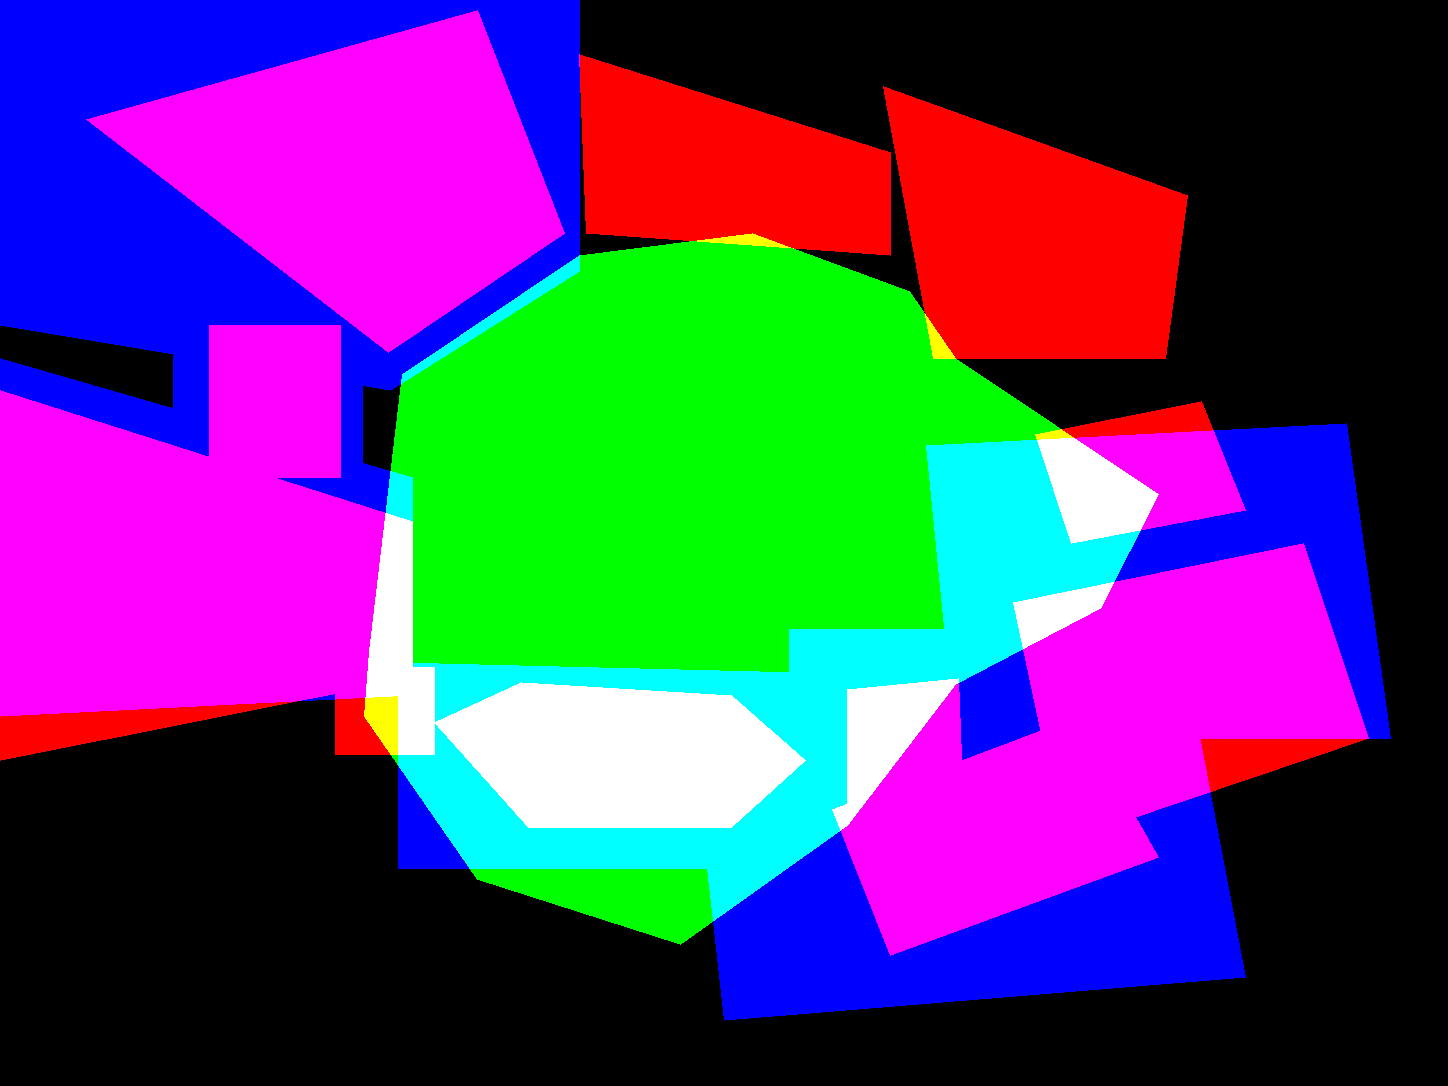
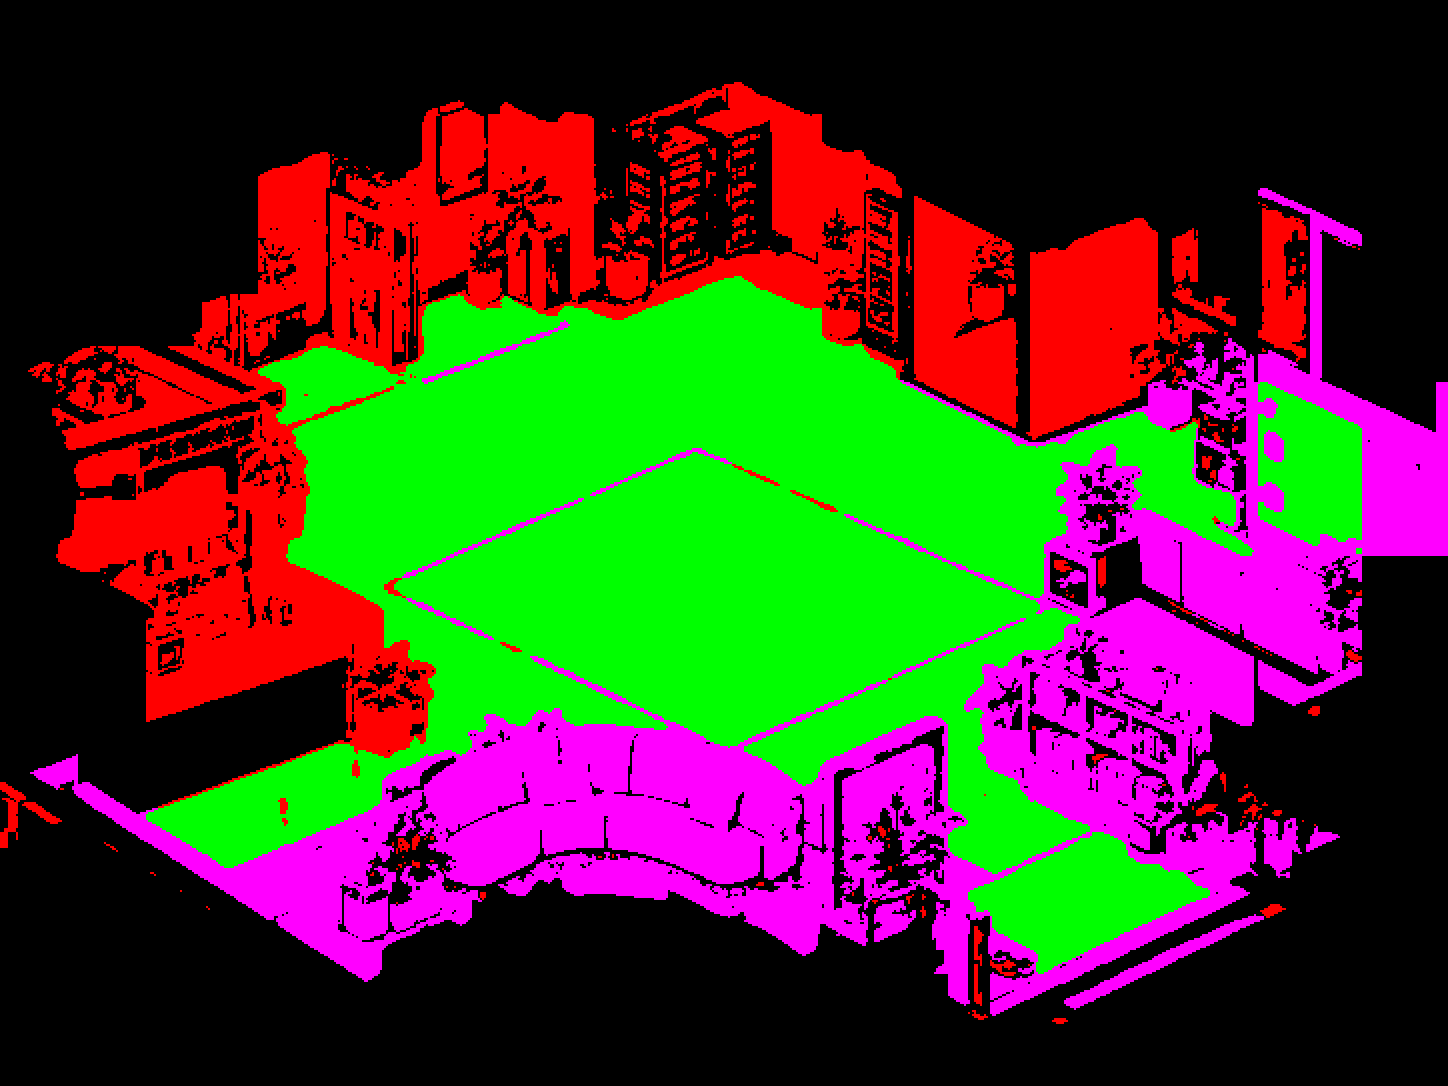
feat(roommap): segment the room automatically, then let the owner correct it
Owner (2026-09-20): "คุณสามารถจับ ออปเจควัตถุได้อยู่แล้วไม่ใช่เหรอ ... หาวิธี
หน่อย ที่กดปุ่มเดียวแล้วระบายไว้ก่อนเลย ฉันปรับแต่งรายละเอียดนิดหน่อย" — and
"ตัวนี้ต้องเก็บไว้ใช้เลย พวกเกมเราก็ต้องใช้ในอนาคต", so it is a tool with a
path argument, not a one-off script.

tools/roommap/autoseg.py. First attempt clustered colours (k-means, k=14) and
failed for a reason worth recording: in this art the walls, the floor and half
the furniture share a palette, so no amount of cluster scoring separates them —
it painted 43% of the picture as floor including the shelving.

What does separate them is what a picture of a room carries that a palette does
not:

  FLATNESS    the floor is the large low-detail surface; furniture, plants and
              shelves are busy. A local-variance map finds it immediately.
  CONTINUITY  the floor is one connected surface. Growing it from seeds inside
              it, bounded by an edge map (luma AND per-channel colour, because
              the green sofa matches the boards in brightness), keeps furniture
              out even where the colours agree.
  PROJECTION  depth is free in a fixed isometric camera: lower on screen is
              nearer the viewer, so an object with floor ABOVE it in the same
              column is an object a character can stand behind. That is the
              occluder test, per connected component.

Two corrections the previews forced, both structural rather than tuning:
[…]

diff --git a/BrainX.Client/wwwroot/office/tools/mask-paint.html b/BrainX.Client/wwwroot/office/tools/mask-paint.html
@@ -113,6 +113,9 @@
     <div class="grp">
       <label>ให้โปรแกรมช่วยเก็บ</label>
       <div class="row">
+        <button id="auto" style="flex:1">ระบายอัตโนมัติให้เลย</button>
+      </div>
+      <div class="row" style="margin-top:6px">
         <button id="snap" style="flex:1">เก็บขอบให้ (S)</button>
       </div>
       <div class="row" style="margin-top:6px">
@@ -622,6 +625,47 @@ function checkMap() {
     ].join('<br>'));
 }
 function report(html) { document.getElementById('report').innerHTML = html; }
+
+/* One button: load the automatic pass.
+ *
+ * Owner (2026-09-20): "หาวิธีหน่อย ที่กดปุ่มเดียวแล้วระบายไว้ก่อนเลย ฉันปรับแต่ง
+ * รายละเอียดนิดหน่อย". The segmentation itself is tools/roommap/autoseg.py —
+ * flatness picks the floor, region growing bounded by an edge map keeps the
+ * furniture out of it, and depth comes from the projection. It runs outside
+ * the browser because it is a batch job over 1.5M pixels that only needs
+ * re-running when the PLATE changes, not while somebody is painting.
+ *
+ * So the button loads its output and hands it over as editable paint. */
+document.getElementById('auto').addEventListener('click', async () => {
+    try {
+        snapshot();
+        const im = new Image();
+        await new Promise((res, rej) => { im.onload = res; im.onerror = rej; im.src = '../art/room-mask.png?t=' + Date.now(); });
+        const t = document.createElement('canvas');
+        t.width = im.naturalWidth; t.height = im.naturalHeight;
+        t.getContext('2d').drawImage(im, 0, 0);
+        const d = t.getContext('2d').getImageData(0, 0, t.width, t.height);
+        const out = mctx.createImageData(paint.width, paint.height);
+        for (let i = 0; i < d.data.length; i += 4) {
+            const R = d.data[i] > 127, G = d.data[i + 1] > 127, B = d.data[i + 2] > 127;
+            if (!(R || G || B)) continue;
+            let r = 0, g = 0, b = 0, n = 0;
+            if (G) { r += 60; g += 227; b += 138; n++; }
+            if (R) { r += 255; g += 90; b += 110; n++; }
+            if (B) { r += 90; g += 160; b += 255; n++; }
+            out.data[i] = r / n; out.data[i + 1] = g / n; out.data[i + 2] = b / n; out.data[i + 3] = 255;
+        }
+        mctx.putImageData(out, 0, 0);
+        try {
+            const sj = await fetch('../art/room-seats.json?t=' + Date.now()).then(r => r.json());
+            seats.length = 0; (sj.seats || []).forEach(s => seats.push(s)); drawSeats();
+        } catch { /* seats are optional */ }
+        checkMap();
+        say('ระบายอัตโนมัติมาให้แล้ว — แก้ทับได้เลย');
+    } catch (e) {
+        say('ยังไม่มีผลอัตโนมัติ — รัน tools/roommap/autoseg.py ก่อน');
+    }
+});
 
 document.getElementById('snap').addEventListener('click', () => { snapshot(); snapToEdges(); });
 document.getElementById('clean').addEventListener('click', () => { snapshot(); cleanLayer(); });

diff --git a/tools/roommap/autoseg.py b/tools/roommap/autoseg.py
@@ -1,0 +1,258 @@
+# Automatic room segmentation, take two — seeded region growing.
+#
+# Take one clustered by colour and failed for a reason worth keeping: in this
+# art the walls, the floor and half the furniture share a palette. Colour alone
+# cannot separate them, and no amount of scoring rescues a cluster that is
+# genuinely both.
+#
+# What DOES separate them is the two things a picture of a room carries that a
+# palette does not:
+#
+#   FLATNESS  the floor is the large low-detail area; furniture, plants and
+#             shelves are busy. A local-variance map finds that immediately.
+#   CONTINUITY the floor is one connected surface under the camera. Growing it
+#             from seeds INSIDE it, and stopping at edges, keeps the sofa out
+#             even where the sofa is the same brightness as the boards.
+#
+# So: flatness picks the seeds, region growing bounded by an edge map does the
+# rest, and depth (what occludes what) still comes from the projection — lower
+# on screen is nearer the viewer.
+import argparse, io, json, os
+import numpy as np
+from PIL import Image, ImageDraw
+
+# Owner (2026-09-20): "ตัวนี้ต้องเก็บไว้ใช้เลย พวกเกมเราก็ต้องใช้ในอนาคต".
+# It takes a path rather than one hardcoded room, so it works on the next
+# plate and the next game:
+#
+#   python tools/roommap/autoseg.py <plate.png> [-o OUTDIR]
+#
+# It is a FIRST PASS, not an answer. Open the result in
+# wwwroot/office/tools/mask-paint.html and correct it — faster than painting
+# 1.5M pixels from nothing, and only slower than nothing if it were wrong
+# everywhere, which the preview it writes lets you check in one look.
+
+
+
+def box_mean(a, r):
+    """Mean over a (2r+1) box, via a summed-area table. Used for both the
+    variance map and the morphology below, so it is worth having exactly."""
+    H, W = a.shape
+    pad = np.pad(a, r + 1, mode="edge")
+    ii = pad.cumsum(0).cumsum(1)
+    y0, y1 = np.mgrid[0:H, 0:W][0], None
+    ys = np.arange(H)[:, None]
+    xs = np.arange(W)[None, :]
+    a1 = ii[ys, xs]
+    a2 = ii[ys, xs + 2 * r + 1]
+    a3 = ii[ys + 2 * r + 1, xs]
+    a4 = ii[ys + 2 * r + 1, xs + 2 * r + 1]
+    area = (2 * r + 1) ** 2
+    return (a4 - a2 - a3 + a1) / area
+
+
+def grow(seedmask, allow, iters=400):
+    """Dilate `seedmask` inside `allow` until it stops changing. Plain binary
+    dilation by a 3x3 cross, vectorised — a flood fill written as array shifts,
+    which is fast enough at half resolution and has no recursion to blow."""
+    cur = seedmask & allow
+    for _ in range(iters):
+        nxt = cur.copy()
+        nxt[1:, :] |= cur[:-1, :]
+        nxt[:-1, :] |= cur[1:, :]
+        nxt[:, 1:] |= cur[:, :-1]
+        nxt[:, :-1] |= cur[:, 1:]
+        nxt &= allow
+        if nxt.sum() == cur.sum():
+            break
+        cur = nxt
+    return cur
+
+
+def components(mask):
+    H, W = mask.shape
+    lab = np.zeros((H, W), np.int32)
+    cur = 0
+    for sy in range(H):
+        row = mask[sy]
+        for sx in range(W):
+            if not row[sx] or lab[sy, sx]:
+                continue
+            cur += 1
+            stack = [(sy, sx)]
+            lab[sy, sx] = cur
+            while stack:
+                y, x = stack.pop()
+                for dy, dx in ((1, 0), (-1, 0), (0, 1), (0, -1)):
+                    ny, nx = y + dy, x + dx
+                    if 0 <= ny < H and 0 <= nx < W and mask[ny, nx] and not lab[ny, nx]:
+                        lab[ny, nx] = cur
+                        stack.append((ny, nx))
+    return lab, cur
+
+
+def main():
+    ap = argparse.ArgumentParser(
+        description="Segment an isometric room plate into walkable / blocked / occluder.")
+    ap.add_argument("plate", nargs="?",
+                    default=os.path.join("BrainX.Client", "wwwroot", "office", "art", "room.webp"))
+    ap.add_argument("-o", "--out", default=None, help="output folder (default: beside the plate)")
+    args = ap.parse_args()
+    SRC = args.plate
+    OUT = args.out or os.path.dirname(os.path.abspath(SRC))
+    os.makedirs(OUT, exist_ok=True)
+
+    im = Image.open(SRC).convert("RGB")
+    W, H = im.size
+    sw, sh = W // 2, H // 2
+    small = im.resize((sw, sh), Image.BILINEAR)
+    a = np.asarray(small, dtype=np.float32)
+    grey = a.mean(2)
+
+    # ── edges: where a region is allowed to stop ─────────────────────
+    # Sobel on the greyscale, plus colour change, because two surfaces here can
+    # differ in hue at the same brightness (the green sofa against wood).
+    gx = np.zeros_like(grey); gy = np.zeros_like(grey)
+    gx[:, 1:-1] = grey[:, 2:] - grey[:, :-2]
+    gy[1:-1, :] = grey[2:, :] - grey[:-2, :]
+    edge = np.hypot(gx, gy)
+    ca = np.zeros_like(grey)
+    for c in range(3):
+        cx = np.zeros_like(grey); cy = np.zeros_like(grey)
+        cx[:, 1:-1] = a[:, 2:, c] - a[:, :-2, c]
+        cy[1:-1, :] = a[2:, :, c] - a[:-2, :, c]
+        ca = np.maximum(ca, np.hypot(cx, cy))
+    edge = np.maximum(edge, ca)
+
+    # ── flatness: where the floor is ─────────────────────────────────
+    m1 = box_mean(grey, 3)
+    m2 = box_mean(grey * grey, 3)
+    var = np.maximum(m2 - m1 * m1, 0)
+    flat = var < np.percentile(var, 55)
+
+    # Seeds: flat, mid-toned, inside the middle of the frame. The sky is dark
+    # and at the top; the balcony wall is dark and at the very bottom.
+    ys, xs = np.mgrid[0:sh, 0:sw]
+    band = (ys > sh * 0.20) & (ys < sh * 0.93) & (xs > sw * 0.06) & (xs < sw * 0.94)
+    v = grey / 255.0
+    lower = ys > sh * 0.70
+    flat_enough = flat | (lower & (var < np.percentile(var, 78)))
+    seeds = flat_enough & band & (v > 0.20) & (v < 0.80) & (edge < 18)
+
+    # Only keep seed blobs that are genuinely large — a flat patch on a
+    # cupboard door is flat too, and it is not floor.
+    lab, n = components(seeds)
+    keep = np.zeros_like(seeds)
+    sizes = np.bincount(lab.ravel())
+    for i in range(1, n + 1):
+        if sizes[i] < sw * sh * 0.004:
+            continue
+        m = lab == i
+        my = ys[m].mean() / sh
+        if my < 0.25 or my > 0.90:
+            continue
+        keep |= m
+
+    # ── grow the floor ───────────────────────────────────────────────
+    allow = (edge < 26) & band & (v > 0.16) & (v < 0.86)
+    floor = grow(keep, allow)
+
+    # Close the hairline gaps the edge map leaves along board seams.
+    f = box_mean(floor.astype(np.float32), 2) > 0.45
+    floor = f & band
+
+    # ── the room, and what stands in it ──────────────────────────────
+    # The room extends BELOW the floor as well as above it. Everything in the
+    # front row — the sofa, the coffee bar, the planters, the balcony rail —
+    # stands nearer the camera than the boards behind it, so its pixels sit
+    # under the floor's lowest pixel in that column. Growing only upward (the
+    # first version) left exactly those pieces unclassified, which is also why
+    # the occluder layer came out nearly empty: the things that occlude are
+    # precisely the things in front.
+    room = np.zeros_like(floor)
+    for x in range(sw):
+        col = np.where(floor[:, x])[0]
+        if len(col):
+            top = max(0, col.min() - int(sh * 0.18))
+            bot = min(sh, col.max() + int(sh * 0.16))
+            room[top:bot, x] = True
+    # The night sky and the city are not furniture. They are dark and sit
+    # outside the lit interior, so brightness rejects them cleanly.
+    for y in range(sh):
+        row = np.where(floor[y])[0]
+        if len(row):
+            room[y, max(0, row.min() - int(sw * 0.16)):min(sw, row.max() + int(sw * 0.16))] = True
+    room &= (v > 0.14)
+    objects = room & ~floor
+
+    # ── occluders: floor above, in the same column ───────────────────
+    floor_above = np.zeros_like(floor)
+    acc = np.zeros(sw, bool)
+    for y in range(sh):
+        acc |= floor[y]
+        floor_above[y] = acc
+
+    lab2, n2 = components(objects)
+    occl = np.zeros_like(objects)
+    for i in range(1, n2 + 1):
+        m = lab2 == i
+        sz = int(m.sum())
+        if sz < 60:
+            continue
+        if float((m & floor_above).sum()) / sz > 0.5:
+            occl |= m
+
+    # ── seats: the floor strip in front of a big object ──────────────
+    seats = []
+    for i in range(1, n2 + 1):
+        m = lab2 == i
+        if m.sum() < sw * sh * 0.006:
+            continue
+        cols = np.where(m.any(0))[0]
+        if len(cols) < sw * 0.07:
+            continue
+        cx = int(np.median(cols))
+        rows = np.where(m[:, cx])[0]
+        if not len(rows):
+            continue
+        fy = rows.max() + 5
+        if fy < sh and floor[min(sh - 1, fy), cx]:
+            seats.append({"x": round(cx / sw, 4), "y": round(fy / sh, 4)})
+    seats = seats[:8]
+
+    def up(mask):
+        return np.asarray(Image.fromarray((mask * 255).astype(np.uint8))
+                          .resize((W, H), Image.NEAREST)) > 127
+
+    Fw, Bl, Oc = up(floor), up(objects), up(occl)
+    rgb = np.zeros((H, W, 3), np.uint8)
+    rgb[..., 0] = Bl * 255
+    rgb[..., 1] = Fw * 255
+    rgb[..., 2] = Oc * 255
+    Image.fromarray(rgb).save(os.path.join(OUT, "room-mask.png"))
+    io.open(os.path.join(OUT, "room-seats.json"), "w", encoding="utf-8").write(json.dumps(
+        {"note": "auto-segmented (flatness + region growing); seats are guesses", "seats": seats},
+        ensure_ascii=False, indent=2))
+
+    view = im.convert("RGBA")
+    for m, colour in ((Fw, (60, 255, 140, 90)), (Bl, (255, 70, 90, 80)), (Oc, (90, 160, 255, 120))):
+        tint = Image.new("RGBA", (W, H), colour)
+        view = Image.alpha_composite(view, Image.composite(
+            tint, Image.new("RGBA", (W, H), (0, 0, 0, 0)),
+            Image.fromarray((m * 255).astype(np.uint8))))
+    d = ImageDraw.Draw(view)
+    for i, s in enumerate(seats):
+        x, y = s["x"] * W, s["y"] * H
+        d.ellipse([x - 9, y - 9, x + 9, y + 9], fill=(255, 209, 102, 255))
+        d.text((x - 3, y - 6), str(i + 1), fill=(42, 32, 8, 255))
+    view.convert("RGB").save(os.path.join(OUT, "room-mask-preview.png"))
+
+    tot = W * H
+    print("%s  %dx%d" % (os.path.basename(SRC), W, H))
+    print("  walkable %5.1f%%  blocked %5.1f%%  occluder %5.1f%%  seats %d"
+          % (Fw.sum() / tot * 100, Bl.sum() / tot * 100, Oc.sum() / tot * 100, len(seats)))
+    print("  -> room-mask.png, room-seats.json, room-mask-preview.png in " + OUT)
+
+
+if __name__ == "__main__":
+    main()
